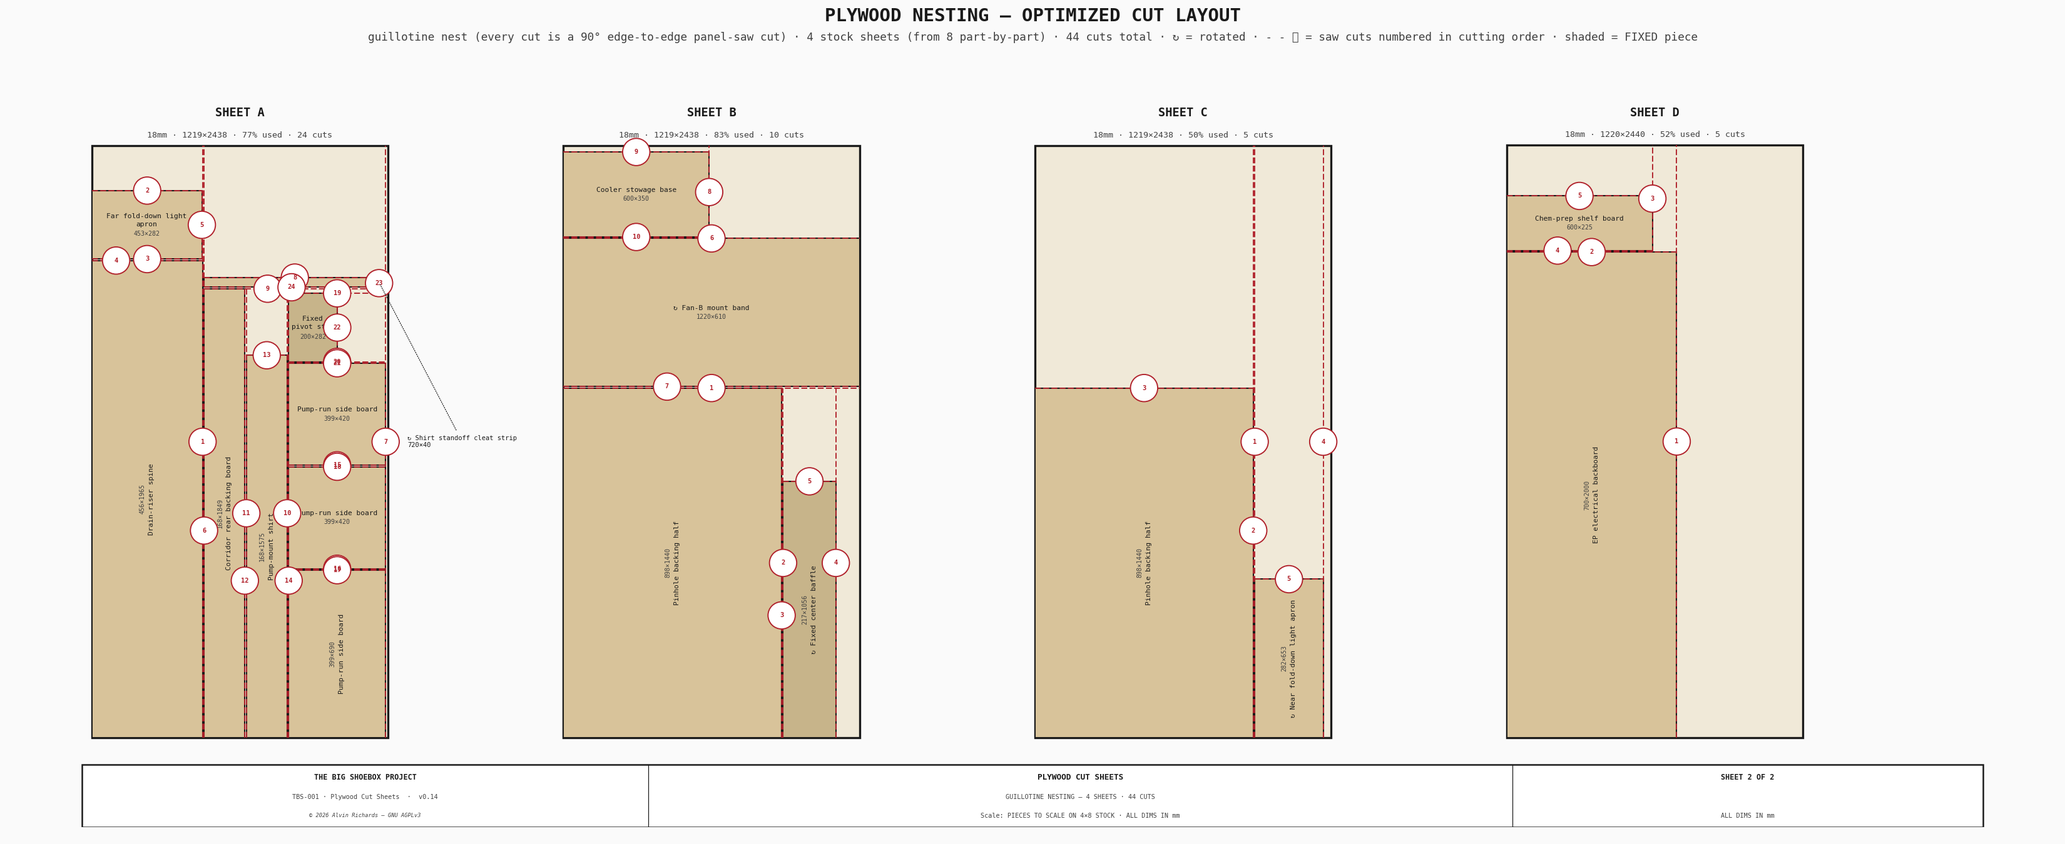
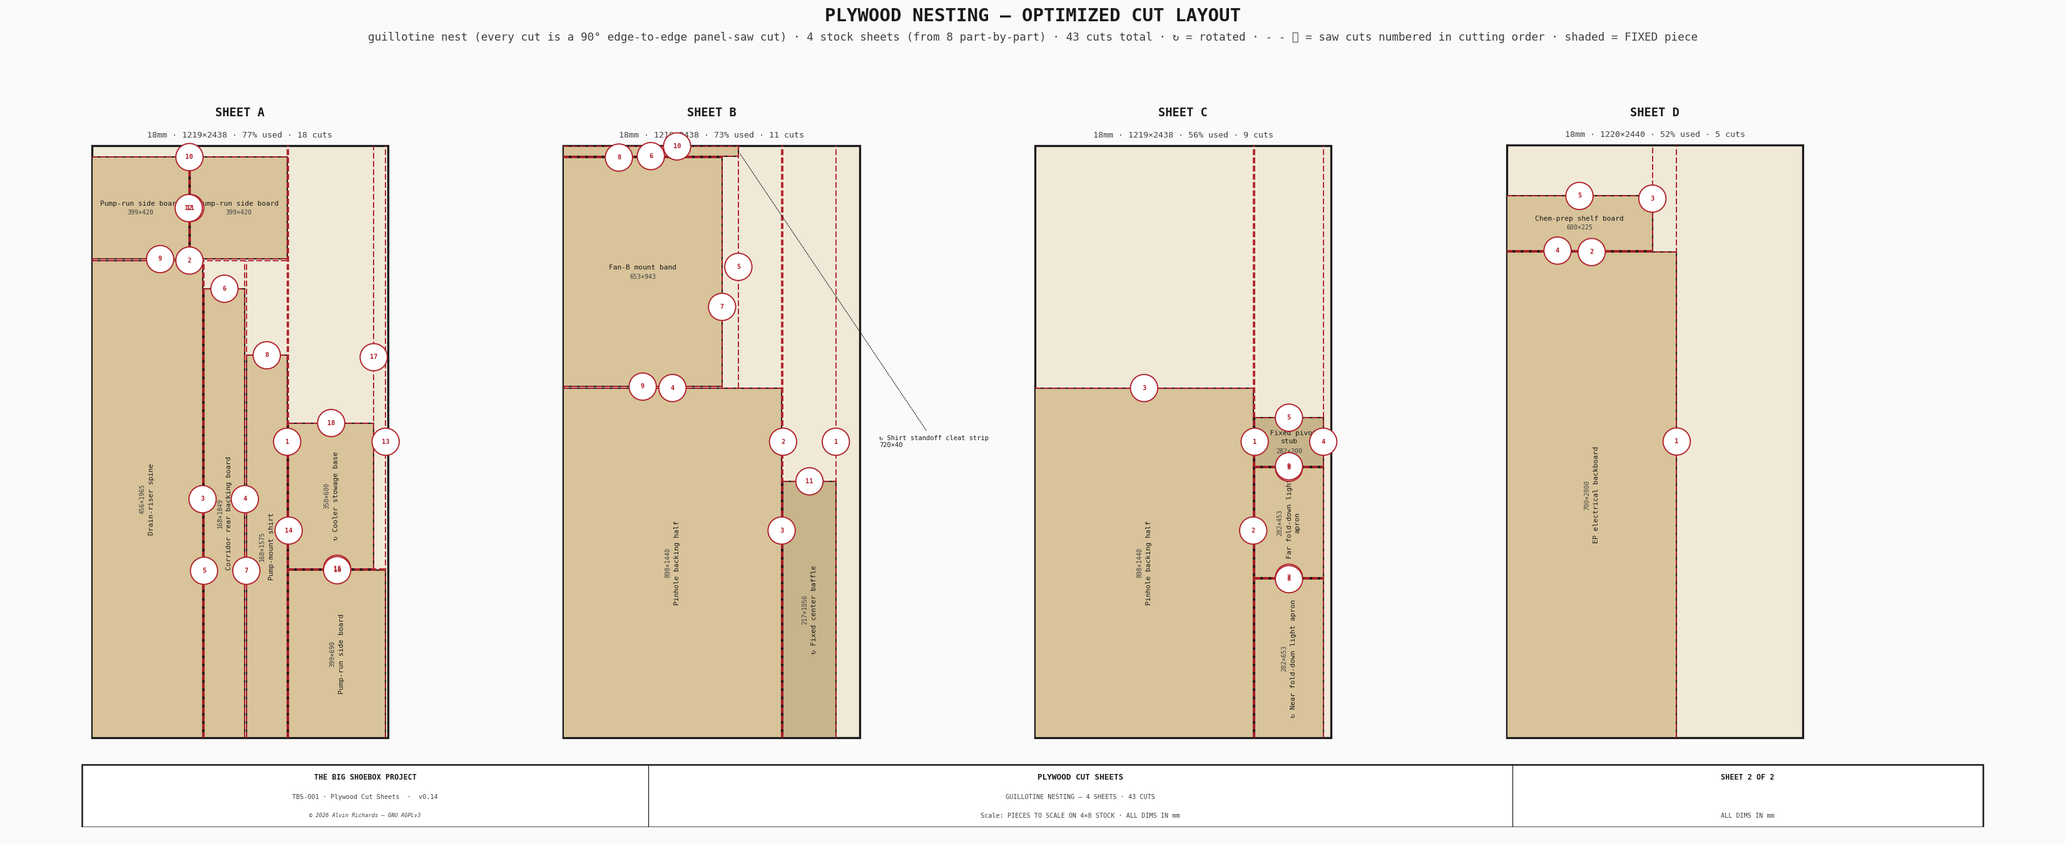
Fan-B band: single definition matching the 3D overview (653x943)
Consolidated the Fan-B mount band to one source-of-truth that matches the 3D
overview model (the authoritative one):
- FAN_B_BAND_W/H now DERIVE from the overview band geometry: width =
  PANEL_CORNER_YD_L (653), height = PANEL_FAN_BAND_Z - PANEL_FLOOR_GAP_SIDE
  (943). Was a stale 610x1220.
- 2D Sheet 11 fan cutout now located to match the 3D: X = FAN_B_YD (365 from
  the band edge), Y = FAN_B_H - PANEL_FLOOR_GAP_SIDE (418 from the bottom =
  the fan's Z700 wall height); tee-nut holes made adaptive to the band height.
- No 3D re-send: FAN_B_BAND_* is consumed only by the 2D + plywood generators,
  not the models (manifest --check: all 11 hashes current).
- Plywood cut sheet re-nests to the new 653x943 band (still 4 sheets, 43 cuts,
  fits without the rotation/tolerance trick); parts spec + reports updated.
- Fixed a stale PANEL_FLOOR_GAP_SIDE comment (said 195, computes 282).

diff --git a/src/generators/generate_hingepanel_diagram.py b/src/generators/generate_hingepanel_diagram.py
@@ -2150,7 +2150,8 @@ def sheet10():
 #   Sheet 3; the ply→frame welded-tab + captive tee-nut is Sheet 13.
 # ═══════════════════════════════════════════════════════════════════════════════
 def sheet11():
-    from tbs_constants import FAN_B_BAND_W as BW, FAN_B_BAND_H as BH   # single source: Plywood Cut Sheets
+    from tbs_constants import (FAN_B_BAND_W as BW, FAN_B_BAND_H as BH,   # single source: Plywood Cut Sheets
+                               FAN_B_YD, FAN_B_H, PANEL_FLOOR_GAP_SIDE)
     FR = FAN_DIAM / 2                       # 75 — Ø150 fan cutout
 
     fig, ax = plt.subplots(figsize=(11, 13))
@@ -2165,24 +2166,26 @@ def sheet11():
             ha="center", fontsize=6.6, color=C_DIM, **FONT)
     # the band (drawn to scale, standalone — NOT the 4'×8' cut sheet)
     ax.add_patch(Rectangle((0, 0), BW, BH, fc=C_WOOD, ec=C_OUT, lw=1.5, alpha=0.55, zorder=3))
-    # Ø150 fan cutout + 4 bolt holes
-    fcx, fcy = BW / 2, 360
+    # Ø150 fan cutout + 4 bolt holes — located to MATCH the 3D overview band: fan at its wall height
+    # (FAN_B_H) and near-corner Yd (FAN_B_YD), measured from the band's bottom-left corner.
+    fcx, fcy = FAN_B_YD, FAN_B_H - PANEL_FLOOR_GAP_SIDE   # 365 from edge · 418 from bottom (fan CL = Z700 AFF)
     ax.add_patch(Circle((fcx, fcy), FR, fc=BG, ec=C_OUT, lw=1.3, zorder=6))
     ax.text(fcx, fcy, f"Ø{int(FAN_DIAM)}\nfan\ncutout", ha="center", va="center", fontsize=6.6, color=C_DIM, **FONT, zorder=7)
     for k in range(4):
         a = math.radians(45 + k * 90)
         ax.add_patch(Circle((fcx + (FR + 24) * math.cos(a), fcy + (FR + 24) * math.sin(a)), 5, fc=BG, ec=C_OUT, lw=0.9, zorder=7))
     ax.text(fcx, fcy - FR - 60, "4× fan-flange bolts", ha="center", fontsize=6.2, color=C_DIM, **FONT, zorder=7)
-    # frame-tab T-nut holes along the two vertical edges (to the jamb + stile)
+    # frame-tab T-nut holes along the two vertical edges (to the jamb + stile) — ~320mm pitch, within the band
+    zz_list = [120 + i * 320 for i in range(4) if 120 + i * 320 <= BH - 120]
     for ex in (30, BW - 30):
-        for zz in [120 + i * 320 for i in range(4)]:
+        for zz in zz_list:
             ax.add_patch(Circle((ex, zz), 6, fc="#A8763A", ec=C_OUT, lw=0.8, zorder=7))
-    leader(ax, (BW - 30, 120 + 3 * 320), (BW + 210, BH - 160), "frame-tab T-nut holes\n(both edges @ ~320mm)\n— attach detail Sheet 13", col="#8a5a1f", fs=6.2)
+    leader(ax, (BW - 30, zz_list[-1]), (BW + 210, BH - 120), "frame-tab T-nut holes\n(both edges @ ~320mm)\n— attach detail Sheet 13", col="#8a5a1f", fs=6.2)
     # dimensions
     draw_dim_h(ax, 0, BW, BH + 20, f"{BW}mm", offset=14, fs=6.6, font=FONT)
     draw_dim_v(ax, -70, 0, BH, f"{BH}mm", offset=14, fs=6.6, font=FONT)
-    draw_dim_v(ax, BW + 80, 0, fcy, "360mm to fan CL", offset=12, fs=6.0, font=FONT, right=True)
-    draw_dim_h(ax, 0, fcx, fcy - FR - 95, f"{int(BW / 2)}mm (fan CL)", offset=10, fs=6.0, font=FONT, above=False)
+    draw_dim_v(ax, BW + 80, 0, fcy, f"{int(fcy)}mm to fan CL", offset=12, fs=6.0, font=FONT, right=True)
+    draw_dim_h(ax, 0, fcx, fcy - FR - 95, f"{int(fcx)}mm (fan CL)", offset=10, fs=6.0, font=FONT, above=False)
 
     draw_notes(ax, [
         "FAN-B BAND",

diff --git a/src/generators/parts.py b/src/generators/parts.py
@@ -1002,11 +1002,11 @@ PARTS: list[Part] = [
          spec="Panel skins, both faces (~12 m², 4× 4×8 ft sheets). 1/8\" HDPE is nearest stock to the 4mm PANEL_SKIN_T nominal (weld-compatible with the HDPE housing/drum); the U-channel grid (~400–450mm centers) keeps the skin flat, so the 0.8mm is immaterial. US Plastics 46684 $123.34/sheet."),
     Part("panel-fanb-ply", "Fan B mount band + cooler base ply (23/32\" exterior SYP, from the sheets A–C offcut)", "timber-ply",
          "panel", 1, "cut from the SYP sheets A–C", 0.0, 0.0, "shared (Plywood Cut Sheets)", part_no="303564747", url="https://www.homedepot.com/p/303564747",
-         spec='23/32" (18mm) RTD Southern Yellow Pine exterior sheathing. The Fan B mount band (610×1220mm) rotated 90° '
-              'AND the cooler stowage base plate (600×350) both NEST INTO THE SYP OFFCUT (Plywood Cut Sheets, sheets A–C) — '
-              'the rotated 1220mm band cuts to the 1219mm sheet width within the 5mm plywood cut tolerance, so no separate '
-              'sheet is bought (was a dedicated ¾" PT sheet, retired 2026-09-30). STANDARD exterior per the project rule — '
-              'PT was over-spec for a dry, vented mounting band. Seal cut edges.'),
+         spec='23/32" (18mm) RTD Southern Yellow Pine exterior sheathing. The Fan B mount band (653×943mm, the '
+              'near-corner zone up to the band top) AND the cooler stowage base plate (600×350) both NEST INTO THE '
+              'SYP OFFCUT (Plywood Cut Sheets, sheets A–C), so no separate sheet is bought (was a dedicated ¾" PT '
+              'sheet, retired 2026-09-30). STANDARD exterior per the project rule — PT was over-spec for a dry, '
+              'vented mounting band. Seal cut edges.'),
     Part("panel-corner-stiffener", '1"×1"×1/8" Al angle, 8 ft — corner-zone stiffener grid', "aluminum",
          "panel", 4, "ea", 12.20, 12.20, "Grainger", part_no="2EYP1", url="https://www.grainger.com/product/2EYP1",
          spec="Corner-zone anti-oil-can rib grid — light-tightness is carried by the two black HDPE skins and the latch/fan load by the RHS frame + ply band, so the corner only needs stiffening against oil-can. Per corner: 1 vertical (2,258mm) + 2 horizontal (653mm) 1\"×1\"×1/8\" (25×25×3.2mm) Al angle ribs, ~325×750mm bays, holding both 1/8\" HDPE skins flat within the 40mm framed cavity. The leaf is VERTICAL, so skin self-weight is in-plane; the grid only resists out-of-plane oil-can (works with the U-channel skin retainers at ~400-450mm centers, report §2.5). ~7.1m installed → 4× 8 ft (2,438mm) sticks for clean piece-fit (2 sticks → the 2 verticals, 2 → the 4 horizontals + spare). ~2.9 kg installed. Grainger 2EYP1 $12.20/8ft firm (2026-07-29)."),

diff --git a/src/generators/tbs_constants.py b/src/generators/tbs_constants.py
@@ -328,8 +328,6 @@ PANEL_STEP        = PANEL_CENTER_T - PANEL_CORNER_T  # = 80mm step depth
 PANEL_SKIN_T      = 3.18  # panel skin thickness (mm) — 1/8" black HDPE (US Plastics 46684; rev11 was 18mm ply, nom 1/8″ HDPE), U-channel set
 PANEL_FAN_PLY_T   = 18    # plywood fan-mount band thickness (mm) — local to the Fan B corner only — reserved (spec; band drawn with a literal)
 PANEL_FAN_BAND_Z  = 1225  # ply band top Z (AFF) = FAN_B_H(700) + FAN_DIAM/2(75) + 450; literal — fan consts defined below (rises with the 2026-08-31 Fan B +100mm raise)
-FAN_B_BAND_W      = 610   # Fan B mount band CUT width (mm) — spans the near-corner zone (single source: hingepanel Sheet 11 + Plywood Cut Sheets)
-FAN_B_BAND_H      = 1220  # Fan B mount band CUT height (mm) — bottom of leaf up toward PANEL_FAN_BAND_Z
 PANEL_CORNER_YD_L = 653   # corner-to-center transition, near side (mm) [rev8: widened]
 PANEL_CORNER_YD_R = 1709  # center-to-corner transition, far side (mm)  [rev8: widened]
 PANEL_CENTER_W    = PANEL_CORNER_YD_R - PANEL_CORNER_YD_L  # = 1056mm center zone width
@@ -1134,8 +1132,12 @@ WALKWAY_BRACKET_SPACING = CONTAINER_RIB_SPACING  # bracket spacing along walkway
 # lifted out for transport, with the SAME 15mm margin the center bottom keeps over the Z115 arms
 # (PANEL_FLOOR_GAP − arm-top). So the two corner zones step UP from PANEL_FLOOR_GAP (130) to this.
 # The center zone (drum bay, Yd PANEL_CORNER_YD_L..R) stays at PANEL_FLOOR_GAP. See hinged-panel Sheet 16.
-PANEL_FLOOR_GAP_SIDE = WALKWAY_BRACKET_H + (PANEL_FLOOR_GAP - (WALKWAY_H - WALKWAY_GRATE_T))  # 195
-PANEL_BOTTOM_STEP    = PANEL_FLOOR_GAP_SIDE - PANEL_FLOOR_GAP                                  # 65 — corner step-up
+PANEL_FLOOR_GAP_SIDE = WALKWAY_BRACKET_H + (PANEL_FLOOR_GAP - (WALKWAY_H - WALKWAY_GRATE_T))  # 282
+PANEL_BOTTOM_STEP    = PANEL_FLOOR_GAP_SIDE - PANEL_FLOOR_GAP                                  # corner step-up
+# Fan B mount band CUT size — DERIVED to match the overview 3D band (single source: hingepanel Sheet 11
+# + Plywood Cut Sheets). Spans the near-corner zone width, from the floor-gap line up to the band top.
+FAN_B_BAND_W = PANEL_CORNER_YD_L                          # 653 — band width = near-corner zone (Yd0→653)
+FAN_B_BAND_H = PANEL_FAN_BAND_Z - PANEL_FLOOR_GAP_SIDE    # 943 — band height = floor-gap line (282) → band top (1225)
 # Cantilever bracket ARM section — REDESIGNED to the US IBC/OSHA basis (60 psf + 300 lbf concentrated,
 # IBC Table 1607.1; walkway_load.py). The as-drawn 8mm×10mm plate arm yielded at ~25 lbf; the governing
 # case is the 300 lbf tip point load (M = 400 N·m std / 667 N·m widened). Arm DEPTH is capped at 25.4mm

diff --git a/src/generators/generate_plywood_cutsheets.py b/src/generators/generate_plywood_cutsheets.py
@@ -100,7 +100,7 @@ GROUPS = [
             ("Fixed center baffle", BAFFLE_W, APR_CENTER_H, 1, "fixed light baffle under the drum bay"),
         ]),
         dict(key="panel-fanb-ply", stock=STOCK_8x4, pieces=[
-            ("Fan-B mount band", FAN_B_BAND_W, FAN_B_BAND_H, 1, "hinged-panel near-corner rigid fan/duct mount band (rotated 90°, nests on a pinhole-backing sheet)"),
+            ("Fan-B mount band", FAN_B_BAND_W, FAN_B_BAND_H, 1, "hinged-panel near-corner rigid fan/duct mount band (nests on a pinhole-backing sheet)"),
             ("Cooler stowage base", 600, 350, 1, "evap-cooler stowage base (cargo-door end)"),
         ]),
     ]),

diff --git a/RELEASE.md b/RELEASE.md
@@ -24,7 +24,7 @@ file** — a release must not ship without a changelog entry:
 
 ## [Unreleased]
 
-- **Plywood cut sheets — one schedule + nesting layout for every subsystem.** New `plywood-cut-sheets.md` + `generate_plywood_cutsheets.py`: a single plywood registry (every `timber-ply` part — IBC-corridor plumbing panel, pump-mount shirt, pinhole-wall filter-skid backing, EP electrical backboard, Fan-B mount band, fold-down light-trap aprons, chem-prep shelf) drawn as a **schedule** (grade · thickness · stock · cut pieces · where-used · `parts.py` key) plus a **nesting layout** grouped by grade+thickness. Cut dimensions are single-sourced from `tbs_constants` where geometry-driven (pinhole panel width, apron widths/heights, chem-shelf) and spec/report literals otherwise; cost/supplier/SKU stay in `parts.py`. A **MAXRECTS bin-packer** (5mm cut tolerance) nests all pieces of one grade+thickness onto the fewest 4×8 sheets, **mixing pieces across subsystems** — packing the whole job into **4 stock sheets** (down from 8 part-by-part). Standardizing on 18mm made the consolidation possible: the fold-down aprons re-graded 12mm→18mm into the SYP offcut; the finish-agnostic EP electrical backboard now shares the chem-shelf UV-white sheet; and the Fan-B mount band + cooler base re-graded from a dedicated ¾" pressure-treated sheet into the same SYP offcut (the 1220mm band rotates 90° and cuts to the 1219mm stock within the 5mm tolerance) — retiring the PT sheet (PT was over-spec for a dry, vented mount). The job now settles into **two grades** (SYP ×3, UV-white ×1) and drops **$148** ($68 EP + $10 apron + $70 Fan-B PT sheet). The four physical sheets are lettered **A–D** in sequence (the schedule's SHEET column maps each cut piece to the same letter); the shirt standoff cleats nest as one 40×720 strip cut to 6× 120mm (simpler fab); and nesting labels wrap inside their piece, falling back to a single leader when a piece is too small (e.g. the cleat strip). The nest is now **guillotine-cuttable** — every cut is a straight 90° edge-to-edge pass (the only cut a panel saw makes) — and the layout draws the **cut lines numbered in cutting order** with a per-sheet and total **cut count** (4 sheets, 45 cuts), minimizing sheets first then cuts; the tight free-nest is kept only when all its sheets are guillotine-feasible, else the packer falls back to a guillotine strategy. Fixed the Sheet-2 title block (it was rendering as an unreadable sliver). Gives the buyer a sheet count and the fabricator one optimized cut/nesting reference instead of an ad-hoc rectangle on each subsystem drawing. The hingepanel's duplicate Fan-B cut sheet (Sheet 11) was reworked to the band's *fabrication* detail only (fan cutout + frame-tab holes), pointing its stock/nesting to the plywood doc; the doc lives under a new **Construction** nav group.
+- **Plywood cut sheets — one schedule + nesting layout for every subsystem.** New `plywood-cut-sheets.md` + `generate_plywood_cutsheets.py`: a single plywood registry (every `timber-ply` part — IBC-corridor plumbing panel, pump-mount shirt, pinhole-wall filter-skid backing, EP electrical backboard, Fan-B mount band, fold-down light-trap aprons, chem-prep shelf) drawn as a **schedule** (grade · thickness · stock · cut pieces · where-used · `parts.py` key) plus a **nesting layout** grouped by grade+thickness. Cut dimensions are single-sourced from `tbs_constants` where geometry-driven (pinhole panel width, apron widths/heights, chem-shelf) and spec/report literals otherwise; cost/supplier/SKU stay in `parts.py`. A **MAXRECTS bin-packer** (5mm cut tolerance) nests all pieces of one grade+thickness onto the fewest 4×8 sheets, **mixing pieces across subsystems** — packing the whole job into **4 stock sheets** (down from 8 part-by-part). Standardizing on 18mm made the consolidation possible: the fold-down aprons re-graded 12mm→18mm into the SYP offcut; the finish-agnostic EP electrical backboard now shares the chem-shelf UV-white sheet; and the Fan-B mount band + cooler base re-graded from a dedicated ¾" pressure-treated sheet into the same SYP offcut — retiring the PT sheet (PT was over-spec for a dry, vented mount). The Fan-B band's cut size (653×943) is now derived from the overview 3D band (near-corner width × floor-gap-to-band-top), and its 2D fab sheet (Sheet 11) matches the 3D: Ø150 fan at FAN_B_H/FAN_B_YD. The job now settles into **two grades** (SYP ×3, UV-white ×1) and drops **$148** ($68 EP + $10 apron + $70 Fan-B PT sheet). The four physical sheets are lettered **A–D** in sequence (the schedule's SHEET column maps each cut piece to the same letter); the shirt standoff cleats nest as one 40×720 strip cut to 6× 120mm (simpler fab); and nesting labels wrap inside their piece, falling back to a single leader when a piece is too small (e.g. the cleat strip). The nest is now **guillotine-cuttable** — every cut is a straight 90° edge-to-edge pass (the only cut a panel saw makes) — and the layout draws the **cut lines numbered in cutting order** with a per-sheet and total **cut count** (4 sheets, 43 cuts), minimizing sheets first then cuts; the tight free-nest is kept only when all its sheets are guillotine-feasible, else the packer falls back to a guillotine strategy. Fixed the Sheet-2 title block (it was rendering as an unreadable sliver). Gives the buyer a sheet count and the fabricator one optimized cut/nesting reference instead of an ad-hoc rectangle on each subsystem drawing. The hingepanel's duplicate Fan-B cut sheet (Sheet 11) was reworked to the band's *fabrication* detail only (fan cutout + frame-tab holes), pointing its stock/nesting to the plywood doc; the doc lives under a new **Construction** nav group.
 - **`tidy_labels.py` — three new static label checks** (from a review of the recurring hand "Tidy labels" edits): a **P9 legibility floor** (flag any `fs`/`fontsize`/`title_fs` literal below 4.0 on a label helper); a **notes missing-comma** guard (adjacent string literals in a `draw_notes([...])` list that would concatenate with no separating space — the silent P8 r47 bug, space-aware so intentional line-split items don't false-flag); and a **widened archaeology** flag (adds `relocated` / `(was …)` / `(moved …)` / `formerly`). All flag-only. A render-based text-on-fill/bbox check was evaluated and **rejected** — the house convention rarely bboxes on-fill labels (~6 of 310 in hingepanel), so it flagged ~50/generator (noise, not signal).
 
 ## [0.14] — 2026-09-30

diff --git a/hinged-panel-report.md b/hinged-panel-report.md
@@ -511,7 +511,7 @@ seals) for the swinging panel, and the structural anchor for the wall-stay eyes.
 |------|------|-----|----------|-----------|
 | 2×2×0.120in steel SHS (6 m bulk lengths) | Frame perimeter + internal members | 4 ea | Metal Supermarkets | $120–$160 |
 | [1/8" black HDPE sheet (48×96)](https://www.usplastic.com/catalog/item.aspx?itemid=136961&catid=705) (46684) | Panel skins, both faces (~12 m², 4× 4×8 ft sheets). 1/8" HDPE is nearest stock to the 4mm PANEL_SKIN_T nominal (weld-compatible with the HDPE housing/drum); the U-channel grid (~400–450mm centers) keeps the skin flat, so the 0.8mm is immaterial. US Plastics 46684 $123.34/sheet. | 4 sheet | US Plastics / TAP Plastics | $493 |
-| [Fan B mount band + cooler base ply (23/32" exterior SYP, from the sheets A–C offcut)](https://www.homedepot.com/p/303564747) (303564747) | 23/32" (18mm) RTD Southern Yellow Pine exterior sheathing. The Fan B mount band (610×1220mm) rotated 90° AND the cooler stowage base plate (600×350) both NEST INTO THE SYP OFFCUT (Plywood Cut Sheets, sheets A–C) — the rotated 1220mm band cuts to the 1219mm sheet width within the 5mm plywood cut tolerance, so no separate sheet is bought (was a dedicated ¾" PT sheet, retired 2026-09-30). STANDARD exterior per the project rule — PT was over-spec for a dry, vented mounting band. Seal cut edges. | 1 cut from the SYP sheets A–C | shared (Plywood Cut Sheets) | $0 |
+| [Fan B mount band + cooler base ply (23/32" exterior SYP, from the sheets A–C offcut)](https://www.homedepot.com/p/303564747) (303564747) | 23/32" (18mm) RTD Southern Yellow Pine exterior sheathing. The Fan B mount band (653×943mm, the near-corner zone up to the band top) AND the cooler stowage base plate (600×350) both NEST INTO THE SYP OFFCUT (Plywood Cut Sheets, sheets A–C), so no separate sheet is bought (was a dedicated ¾" PT sheet, retired 2026-09-30). STANDARD exterior per the project rule — PT was over-spec for a dry, vented mounting band. Seal cut edges. | 1 cut from the SYP sheets A–C | shared (Plywood Cut Sheets) | $0 |
 | [1"×1"×1/8" Al angle, 8 ft — corner-zone stiffener grid](https://www.grainger.com/product/2EYP1) (2EYP1) | Corner-zone anti-oil-can rib grid — light-tightness is carried by the two black HDPE skins and the latch/fan load by the RHS frame + ply band, so the corner only needs stiffening against oil-can. Per corner: 1 vertical (2,258mm) + 2 horizontal (653mm) 1"×1"×1/8" (25×25×3.2mm) Al angle ribs, ~325×750mm bays, holding both 1/8" HDPE skins flat within the 40mm framed cavity. The leaf is VERTICAL, so skin self-weight is in-plane; the grid only resists out-of-plane oil-can (works with the U-channel skin retainers at ~400-450mm centers, report §2.5). ~7.1m installed → 4× 8 ft (2,438mm) sticks for clean piece-fit (2 sticks → the 2 verticals, 2 → the 4 horizontals + spare). ~2.9 kg installed. Grainger 2EYP1 $12.20/8ft firm (2026-07-29). | 4 ea | Grainger | $49 |
 | [20mm EPDM gasket (per meter, closed-cell)](https://www.amazon.com/dp/B089GJQ96Z) (B089GJQ96Z) | Perimeter seal (~10 m) + housing-surround ring (~6 m) + 2× vertical cut seals at Yd180/2287 (~5 m) | 21 m | Amazon (OKAYASU) | $24–$52 |
 | Aluminum U-channel, 1/8-panel (per meter) | Gasket retainer + 1/8" HDPE-skin retention (perimeter + housing-surround + stiffener grid). SECTION: aluminum '1/8-panel' U-channel — inner slot ~3.2mm (captures the 3.18mm/PANEL_SKIN_T HDPE skin), ~10–12mm legs, ~1.5mm wall. TOTAL LENGTH: 40m (pick a stock 1/8-panel profile; only the 3.18mm slot is fixed by the skin). | 40 m | Online Metals | $120–$200 |

diff --git a/plywood-cut-sheets.md b/plywood-cut-sheets.md
@@ -33,10 +33,9 @@ subsystems** (e.g. the corridor panel, pump-mount shirt, pinhole-wall backing, t
 the Fan-B mount band all share the Southern-Yellow-Pine sheets A–C). Every layout is **guillotine-cuttable
 — each cut is a straight 90° edge-to-edge pass, the only cut a panel saw / sawmill makes** — and the
 drawing shows the cut lines (dashed red), **numbered in cutting order**, with the cut count per sheet. The packer works to a **5mm cut
-tolerance**: a piece may overhang a sheet edge by up to 5mm and still nest, so a full-width piece cuts to
-the edge (the 1220mm Fan-B band rotates 90° onto a pinhole-backing sheet, 1mm over the 1219mm stock, well
-inside tolerance). It minimizes the sheet count first, then the number of cuts (the current nest is
-**4 sheets, 45 cuts**). This packs the whole job into **4 stock sheets, lettered A–D** — down from 8 if
+tolerance**: a piece may overhang a sheet edge by up to 5mm and still nest, so a near-full-width piece cuts
+clean to the edge rather than forcing a new sheet. It minimizes the sheet count first, then the number of
+cuts (the current nest is **4 sheets, 43 cuts**). This packs the whole job into **4 stock sheets, lettered A–D** — down from 8 if
 each part were cut on its own sheet. Standardizing the timber plywood on 18mm drove the consolidation: the
 fold-down aprons re-graded from a dedicated 12mm sheet into the SYP offcut (sheets A–C); the EP electrical
 backboard — a finish-agnostic backing surface — now shares the chem-shelf UV-white sheet (sheet D); and
@@ -60,7 +59,7 @@ piece to the same letters.
 
 Sheets A–C are one SKU, so the packer nests their parts together across subsystems (the pinhole-wall
 backing exceeds a single sheet's width, so it is cut as two butt-jointed halves; the fold-down aprons,
-the rotated Fan-B band, and the cooler base all drop into the offcut). Sheet D's UV-white stock yields
+the Fan-B band, and the cooler base all drop into the offcut). Sheet D's UV-white stock yields
 both the chem-prep work surface and the EP electrical backboard — the backboard needs only a sealed,
 wipeable face, which the UV coating already gives, so it rides the same sheet rather than buying its own.
 Sheet D is single-grade (a different finish from A–C), so it cannot cross-nest — that residual sheet is
